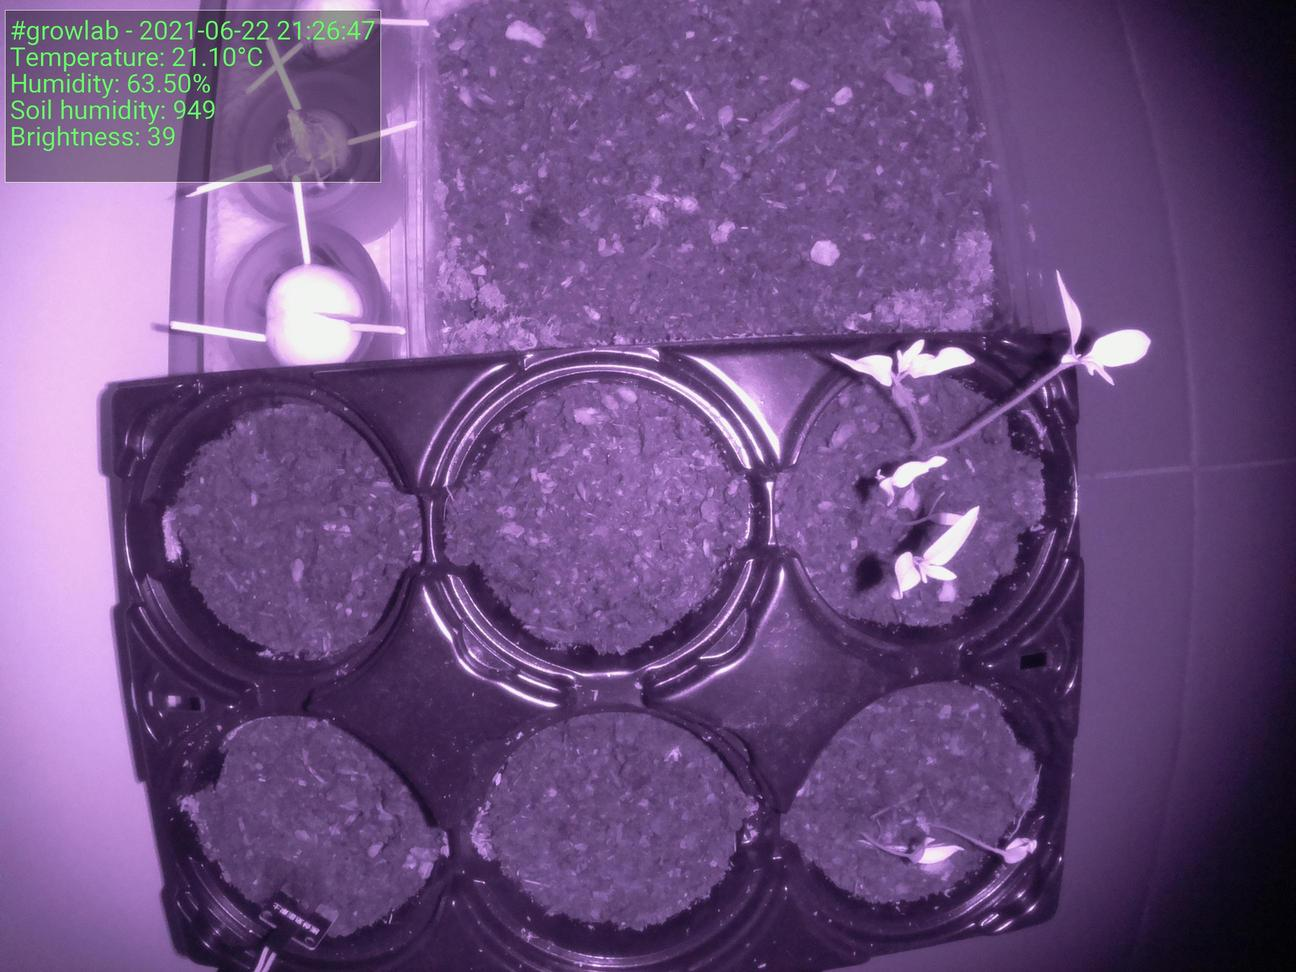
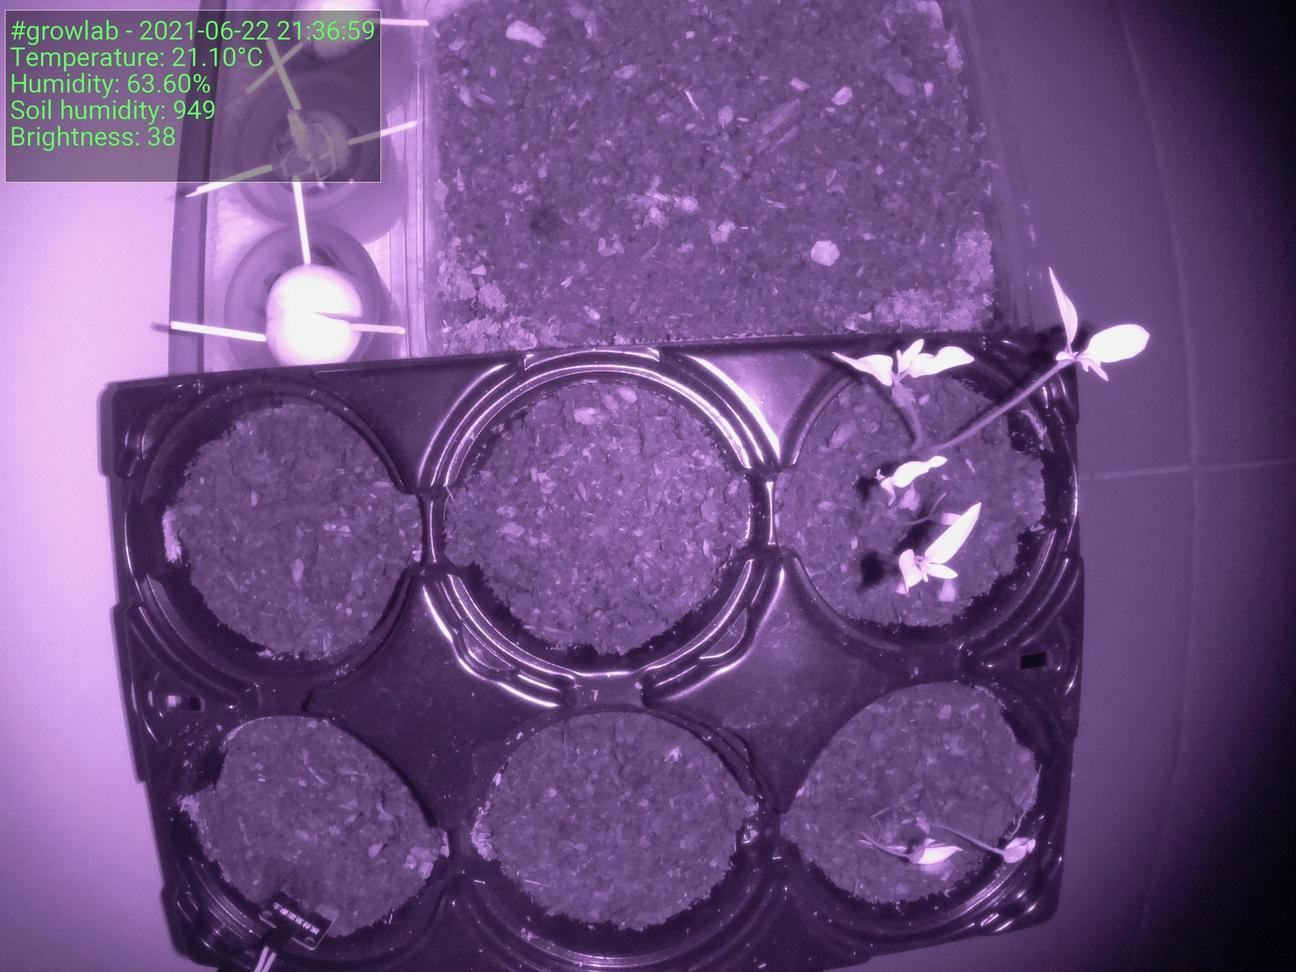
:bento: Update preview

diff --git a/index.html b/index.html
@@ -39,7 +39,7 @@
                     <tbody>
                         <tr>
                             <td>Time</td>
-                            <td>2021-06-22 21:26:47</td>
+                            <td>2021-06-22 21:36:59</td>
                         </tr>
                         <tr>
                             <td>Temperature</td>
@@ -47,7 +47,7 @@
                         </tr>
                         <tr>
                             <td>Humidity</td>
-                            <td>63.50%</td>
+                            <td>63.60%</td>
                         </tr>
                     </tbody>
                 </table>
@@ -55,7 +55,7 @@
 
                 <h5>Latest image</h5>
 		<div style="width: 85%;">
-	                <img class="figure-img img-fluid rounded" src="./preview.jpg?uid=1624390013.9590845">
+	                <img class="figure-img img-fluid rounded" src="./preview.jpg?uid=1624390626.8075557">
 		</div>
             </div>
         </div>
